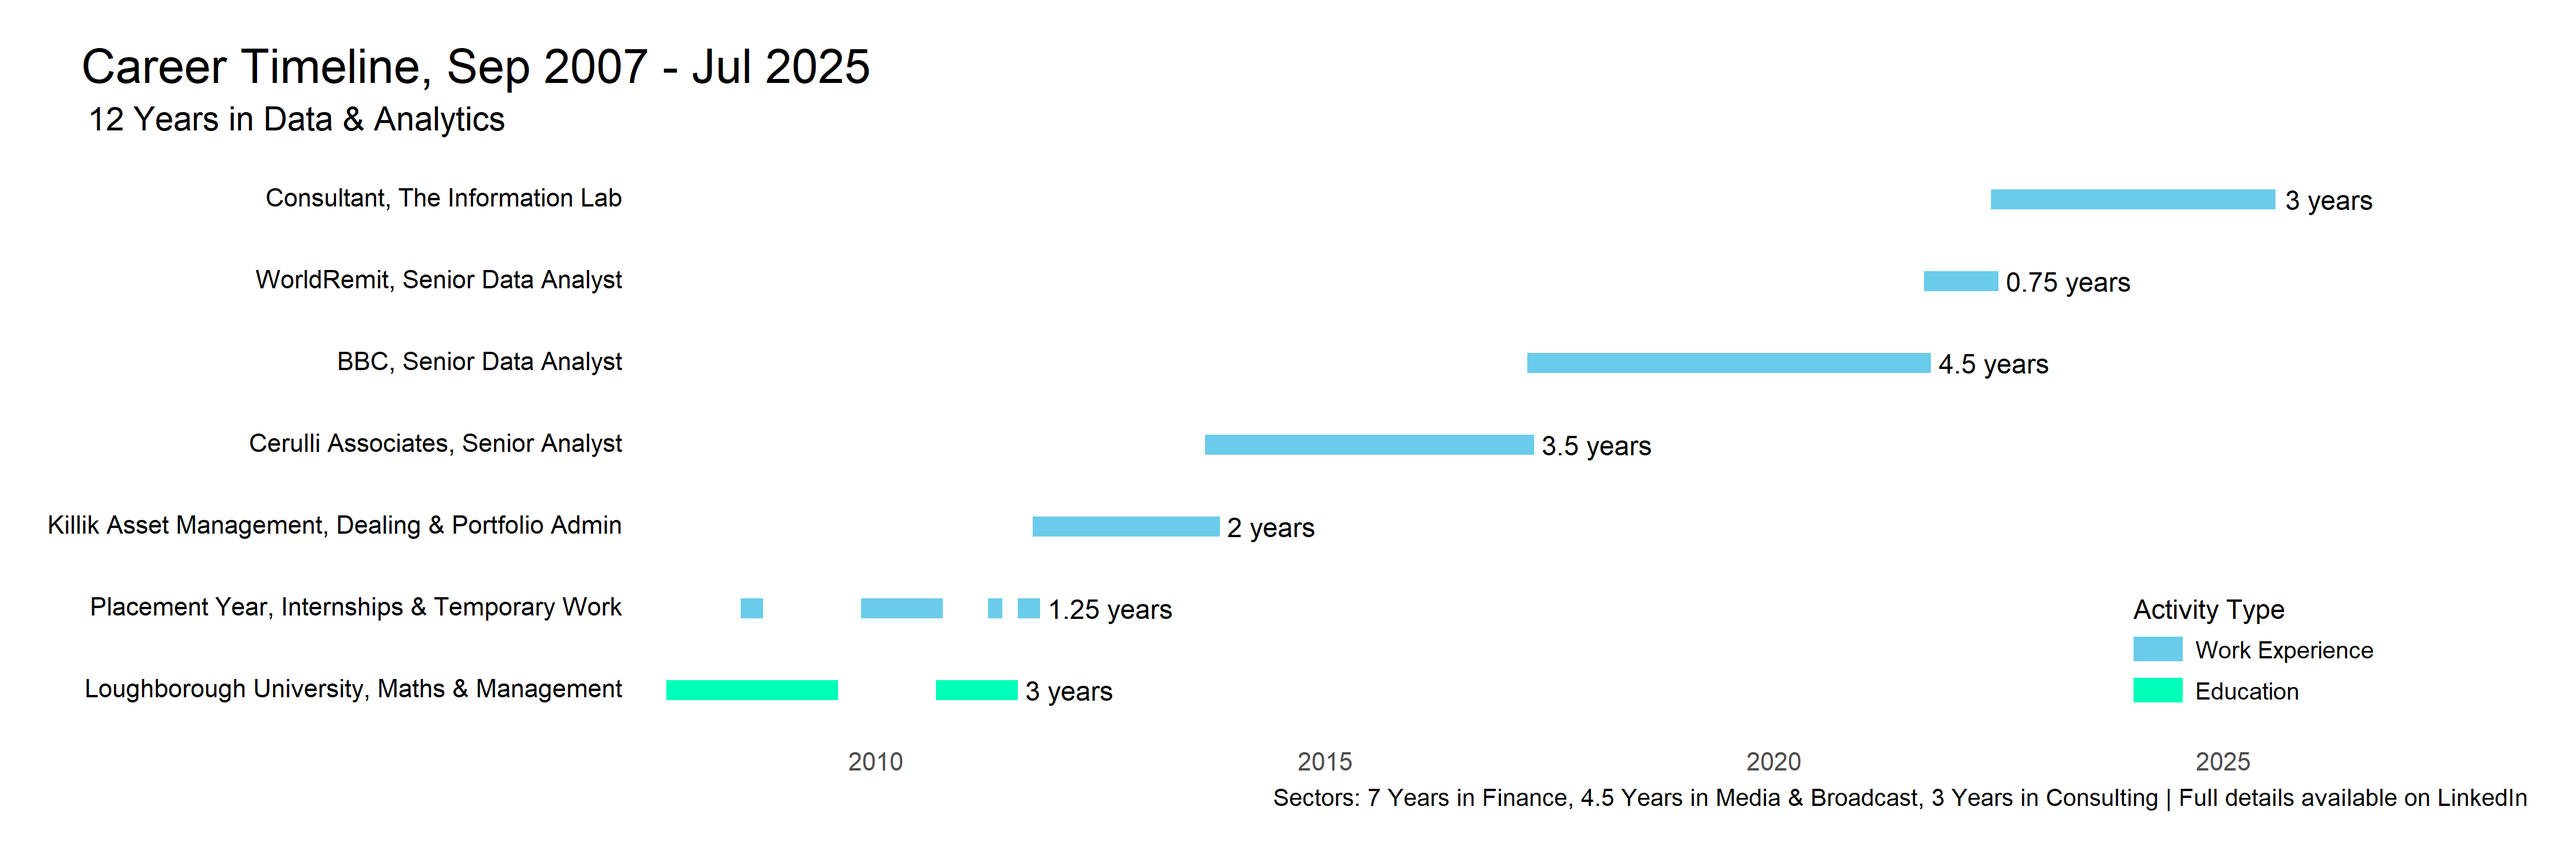
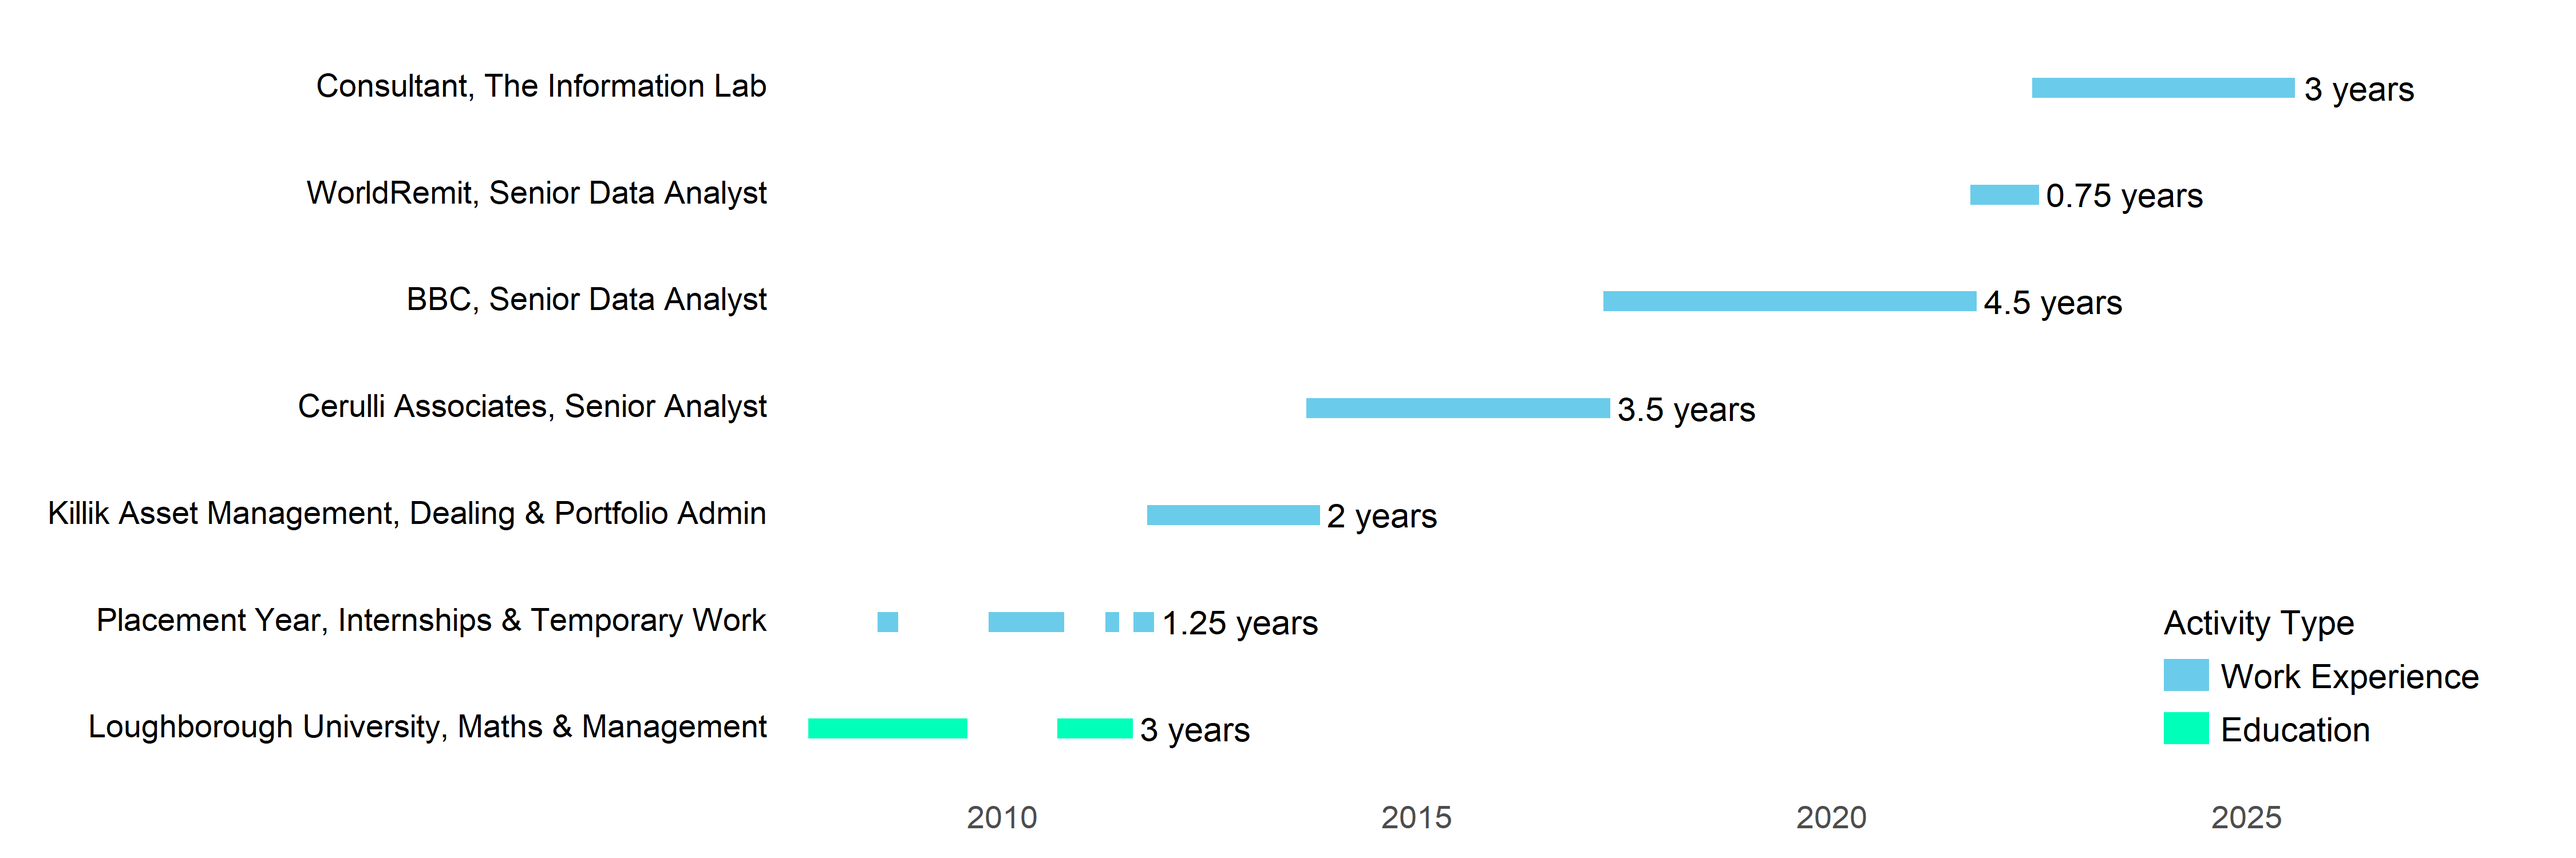
updating readme and chart

diff --git a/README.md b/README.md
@@ -10,9 +10,9 @@
 </h3>
 I develop solutions that are:
 
-- **Engaging Visualisations** of raw data that deliver insight and prompt decision-making, with Tableau  
+- **Engaging Visualisations** of raw data that deliver insight and prompt decision-making, using Tableau  
 - **Engineered Data Applications** that actually meet users’ needs, with SQL, Python & AI  
-- **Practical Tutorials** to upskill teams through in-person training, YouTube & blogs
+- **Practical Training & Tutorials** to upskill teams through in-person sessions, YouTube and blogs
 
 
 ## ⭐ A World Champion in Data Visualisation
@@ -21,16 +21,16 @@ I develop solutions that are:
   <img src="https://github.com/wjsutton/wjsutton.github.io/blob/master/assets/img/WillSutton_IV2022.jpg?raw=true" width="40%" align="left">
 </a>
 
-Since 2013 I've been hooked on building data visualisations with Tableau. This passion has enabled several wins across my career:
-- I saved the BBC over £400k with 1 chart detailing the outcome of planned project
-- Showed the value of Data Science attribution models to WorldRemit stakeholders
-- Upskill and enable new and exisitng users with The Information Lab 
+Since 2013, I've been hooked on building data visualisations with Tableau.  This passion has led to several career highlights:
+- Saved the BBC over £400k with one chart detailing the outcome of a planned project
+- Demonstrated the value of Data Science attribution models to WorldRemit stakeholders
+- Upskilled and enabled new and existing users at The Information Lab
 
-In 2022 travelled to Las Vegas to compete in the largest data visualization contest globally, Tableau's Iron Viz competition. The final round required presenting a 20-minute Tableau dashboard before a live audience of 5,000 and a global streaming audience.
+In 2022, I travelled to Las Vegas to compete in the largest data visualization contest globally, Tableau's Iron Viz competition. The final round involved presenting a 20-minute Tableau dashboard before a live audience of 5,000 and a global streaming audience.
 
-Currently I am a [Tableau Visionary](https://www.tableau.com/community/community-leaders/visionaries), [Tableau Ambassador](https://www.tableau.com/community/community-leaders/ambassadors), Co-host of the [GamesNightViz Community Project](https://gamesnightviz.webflow.io/), Leader for the [AI + Tableau User Group](https://usergroups.tableau.com/ai-tableau-user-group/), and [2022's Iron Viz Champion](https://www.tableau.com/blog/iron-viz-2022-championship).
+Currently I am a [Tableau Visionary](https://www.tableau.com/community/community-leaders/visionaries), [Tableau Ambassador](https://www.tableau.com/community/community-leaders/ambassadors), Co-host of the [GamesNightViz Community Project](https://gamesnightviz.webflow.io/), Leader of the [AI + Tableau User Group](https://usergroups.tableau.com/ai-tableau-user-group/), and [2022 Iron Viz Champion](https://www.tableau.com/blog/iron-viz-2022-championship).
 
-Below are a range of projects highlighted from my [Tableau Public Profile](https://public.tableau.com/app/profile/wjsutton/vizzes#!/)
+Below are some highlighted projects from my [Tableau Public Profile](https://public.tableau.com/app/profile/wjsutton/vizzes#!/)
 
 <a href="https://public.tableau.com/app/profile/wjsutton/viz/DiversityScorecardRWFD/RWFDINC-DiversityScorecard">
     <img src="https://public.tableau.com/thumb/views/DiversityScorecardRWFD/RWFDINC-DiversityScorecard" width ="25%">
@@ -87,7 +87,7 @@ Below are a range of projects highlighted from my [Tableau Public Profile](https
   <img src="https://img.youtube.com/vi/2sPJfxeoJ90/maxresdefault.jpg" align="right" width ="40%">
 </a>
 
-Over the last few years I've been very keen to not just understand what AI can do but build some actually useful applications of it. Whilst AI has opened up a lot of new opportunities and quick ways to get started, there's still immense value in a well engineered data pipeline to deliver on stakeholder requirements.  
+Over the last few years, I’ve been keen not only to understand what AI can do but also to build genuinely useful applications. While AI has opened many new opportunities and quick ways to get started, there is still immense value in a well-engineered data pipeline that delivers on stakeholder requirements.
 
 - **Chat with your data** on Tableau Server using the [Tableau LangChain Starter Kit](https://github.com/TheInformationLab/tableau_langchain_starter_kit)  
 - **Ace Tableau’s Data Analyst exam** with my custom OpenAI GPT: [Tableau Certified DA GPT](https://github.com/wjsutton/tableau_certified_da_gpt)  
@@ -95,52 +95,62 @@ Over the last few years I've been very keen to not just understand what AI can d
 
 
 
-## Practical Tutorials
+## Practical Training and Tutorials
 
 <a href="https://youtu.be/2fCPTlYiX4s?si=BuJepatE-gcGzp_r">
   <img src="https://github.com/wjsutton/sql_murder_mystery/blob/main/youtube_thumb.png?raw=true" align="left" width="40%">
 </a>
 
-I design and deliver training that’s applicable and built for working analysts. Lately these have been more for the emerging data engineering skills gap and opportunites within The Information Lab.  
+I design and deliver training that’s practical and built for working analysts. Recently, these have focused on addressing the emerging data engineering skills gap and opportunities within The Information Lab.
 
-- Run internal training for data engineering consultants at The Information Lab  
-- Host public in‑person dbt training days at The Information Lab 
-- Share walkthroughs to data challenges on GitHub and YouTube:
+- Run internal training for data engineering consultants at The Information Lab
+- Host public in-person dbt training days at The Information Lab
+- Share walkthroughs of data challenges on GitHub and YouTube
   - [Spill the dbt](https://github.com/wjsutton/spill_the_dbt) 
   - [The Summer of SQL](https://github.com/wjsutton/the_summer_of_sql)
   - [Python Charmers](https://github.com/wjsutton/python_charmers) 
 
+## Career Timeline, Sep 2007 - Jul 2025
+
+12 Years in Data & Analytics
+
+<a href="https://www.linkedin.com/in/will-sutton-14711627/">
+  <img src="https://github.com/wjsutton/wjsutton/blob/h2-2025-update/work_timeline.png?raw=true">
+</a>
+
+Sectors: 7 Years in Finance, 4.5 Years in Media & Broadcast, 3 Years in Consulting | Full details available on [LinkedIn](https://www.linkedin.com/in/will-sutton-14711627/)
 
 ### Certifications
 
 <a href="https://www.credly.com/badges/e9770f0c-83bc-45bb-a859-2a9589bc96df/public_url">
-  <img src="https://github.com/wjsutton/wjsutton.github.io/blob/master/assets/img/credly/2024-tableau-visionary.png?raw=true" width="12%">
+  <img src="https://github.com/wjsutton/wjsutton.github.io/blob/master/assets/img/credly/2024-tableau-visionary.png?raw=true" width="19%">
 </a>
 
 <a href="https://www.credly.com/badges/3512eb42-d819-4e6d-b0ed-93fec81d1e91/public_url">
-  <img src="https://github.com/wjsutton/wjsutton.github.io/blob/master/assets/img/credly/tableau-ambassador.png?raw=true" width="12%">
+  <img src="https://github.com/wjsutton/wjsutton.github.io/blob/master/assets/img/credly/tableau-ambassador.png?raw=true" width="19%">
 </a>
 
 <a href="https://www.credly.com/badges/f481f7d5-a216-4ffc-aa1b-74b7fe388fab">
-  <img src="https://github.com/wjsutton/wjsutton.github.io/blob/master/assets/img/credly/tableau-certified-professional.png?raw=true" width="12%">
+  <img src="https://github.com/wjsutton/wjsutton.github.io/blob/master/assets/img/credly/tableau-certified-professional.png?raw=true" width="19%">
 </a>
 
 <a href="https://www.credly.com/badges/357d7051-7b8e-4e3a-a0e4-24e6e554b02b">
-  <img src="https://github.com/wjsutton/wjsutton.github.io/blob/master/assets/img/credly/power-bi-data-analyst.png?raw=true" width="12%">
+  <img src="https://github.com/wjsutton/wjsutton.github.io/blob/master/assets/img/credly/power-bi-data-analyst.png?raw=true" width="19%">
 </a>
 
 <a href="https://www.credly.com/badges/eaebd799-b3cf-460b-b844-da4bc9fe35ab/public_url">
-  <img src="https://github.com/wjsutton/wjsutton.github.io/blob/master/assets/img/credly/alteryx-designer-advanced-certification.png?raw=true" width="12%">
+  <img src="https://github.com/wjsutton/wjsutton.github.io/blob/master/assets/img/credly/alteryx-designer-advanced-certification.png?raw=true" width="19%">
 </a>
 
 <a>
-  <img src="https://www.getdbt.com/_next/image?url=https%3A%2F%2Fcdn.sanity.io%2Fimages%2Fwl0ndo6t%2Fmain%2Fa7e8006b3cc47756364a505f7476973cd1695df6-2160x2160.png%3Ffit%3Dmax%26auto%3Dformat&w=3840&q=75" width="12%">
+  <img src="https://www.getdbt.com/_next/image?url=https%3A%2F%2Fcdn.sanity.io%2Fimages%2Fwl0ndo6t%2Fmain%2Fa7e8006b3cc47756364a505f7476973cd1695df6-2160x2160.png%3Ffit%3Dmax%26auto%3Dformat&w=3840&q=75" width="19%">
 </a>
 
+## Do You Want My Help?
 
-## 📫 Contact
+I'm available for data analytics consultanting projects via [The Information Lab](https://www.theinformationlab.co.uk/). You can speak to your Account Manager or contact the team directly through the [website](https://www.theinformationlab.co.uk/).  
 
-You can find me on the following social media sites
+Otherwise, stay up to date with my latest projects on the following social media sites:
 
 - [LinkedIn](https://www.linkedin.com/in/will-sutton-14711627/)
 - [X FKA Twitter](https://twitter.com/WJSutton12)
